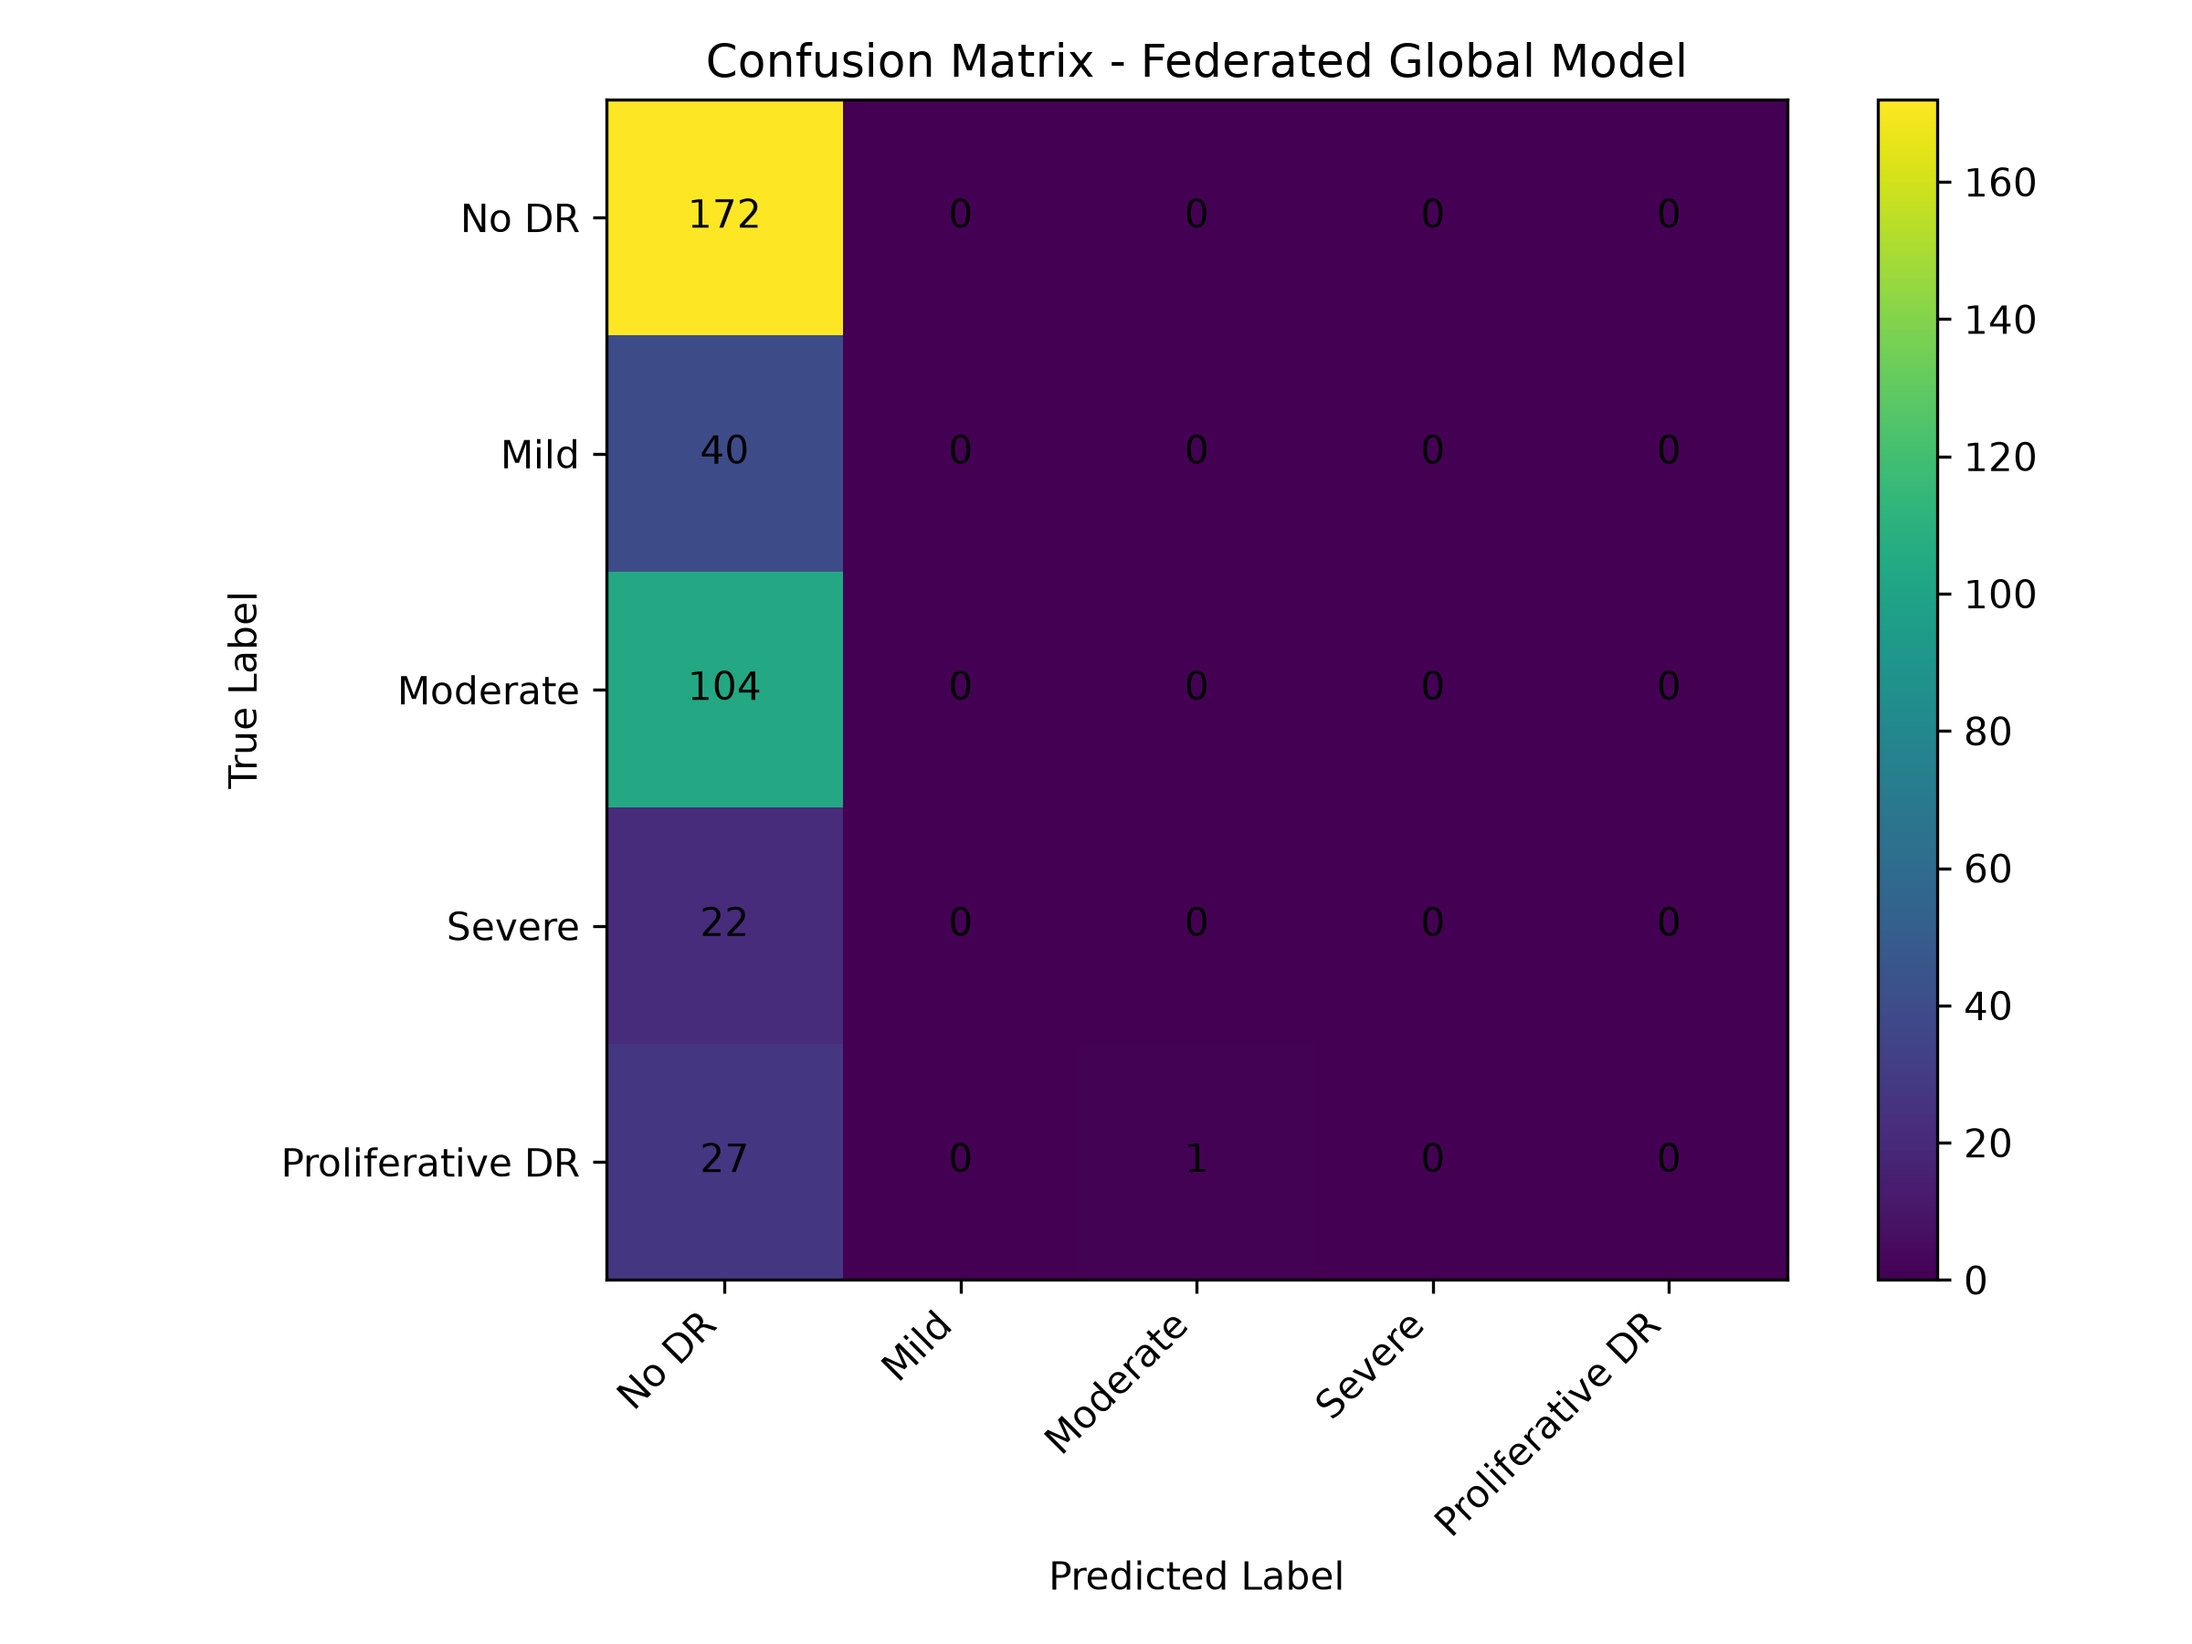
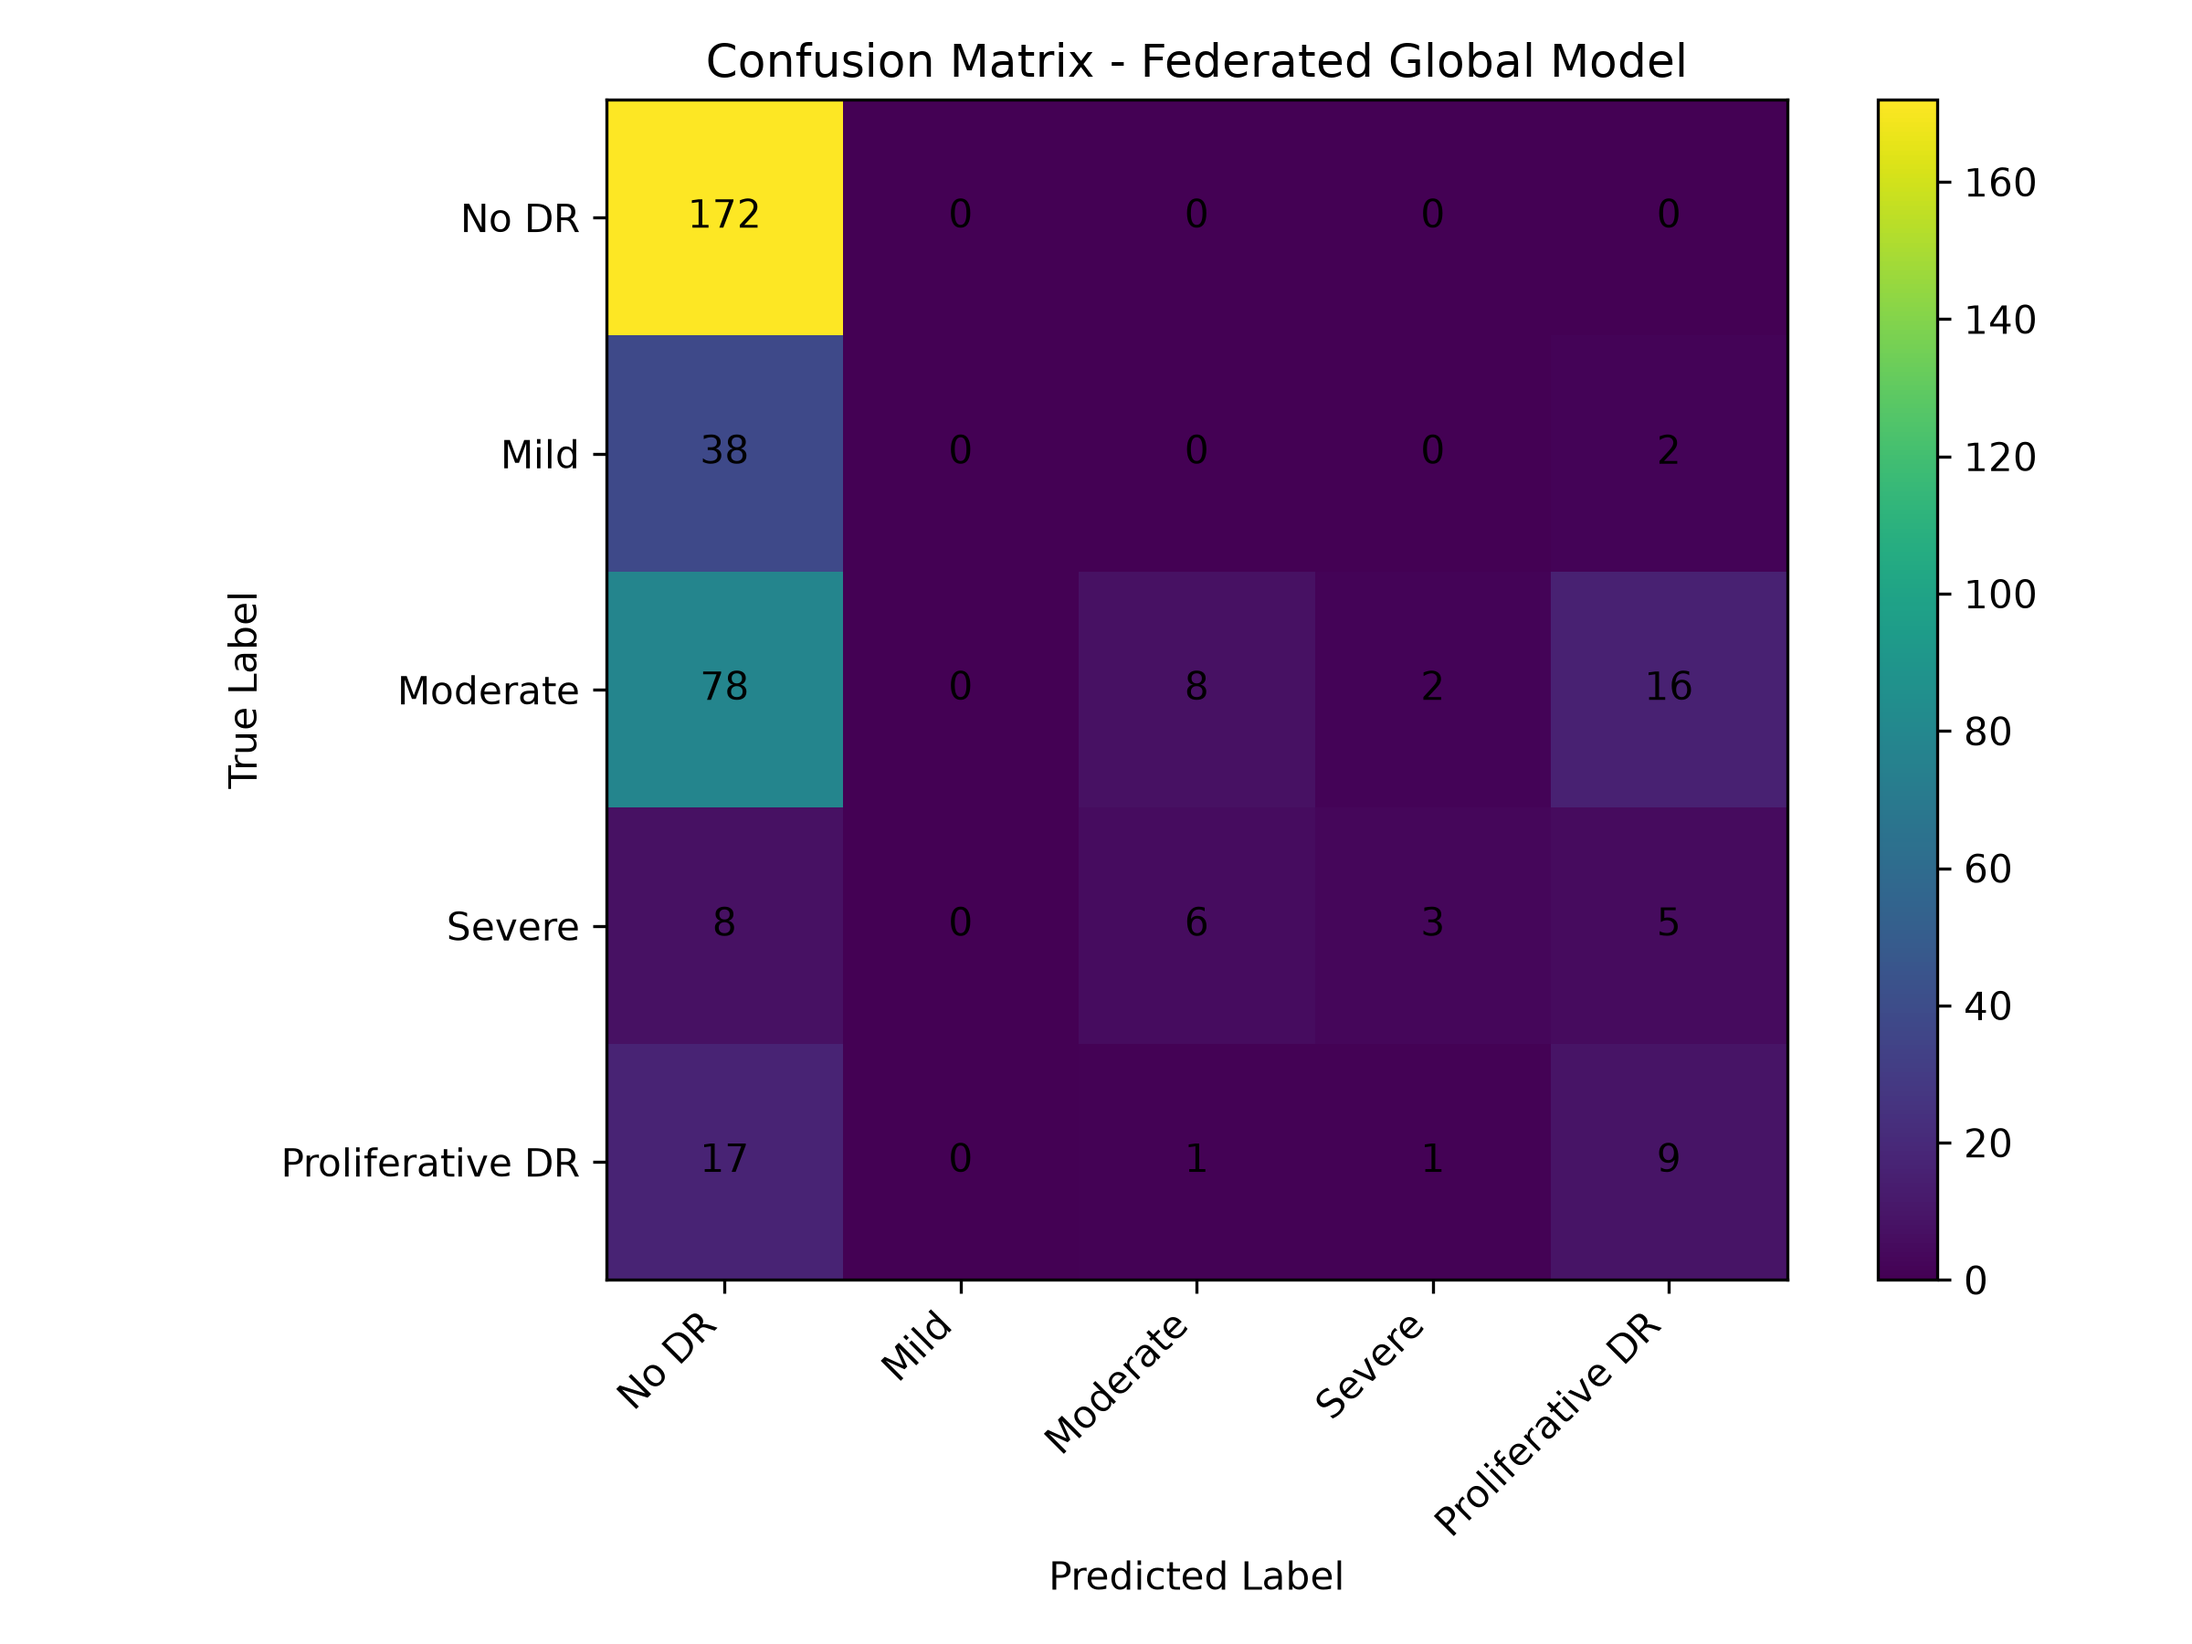
Add non-IID weighted FedAvg experiment

Changed region(s): [[0.25, 0.3422, 0.4062, 0.6533], [0.6875, 0.3422, 0.8125, 0.4978], [0.3125, 0.2489, 0.3438, 0.28]]

diff --git a/fl/fed_train_non_iid_weighted.py b/fl/fed_train_non_iid_weighted.py
@@ -1,0 +1,259 @@
+import torch
+import pandas as pd
+
+from fl.server import FLServer
+
+
+# ==========================================================
+# SETTINGS
+# ==========================================================
+
+NUM_CLIENTS = 4
+ROUNDS = 5
+LOCAL_EPOCHS = 1
+
+# Use the complete client datasets
+MAX_BATCHES = None
+
+# FedAvg
+MU = 0.0
+
+# Non-IID clients
+CLIENT_FOLDER = "clients_non_iid"
+
+# Number of DR classes
+NUM_CLASSES = 5
+
+# Training CSV used to calculate global class weights
+TRAIN_CSV = "datasets/train_1.csv"
+
+
+# ==========================================================
+# CALCULATE GLOBAL CLASS WEIGHTS
+# ==========================================================
+
+def calculate_class_weights():
+
+    df = pd.read_csv(TRAIN_CSV)
+
+    class_counts = (
+        df["diagnosis"]
+        .value_counts()
+        .sort_index()
+    )
+
+    total_samples = len(df)
+
+    weights = []
+
+    for class_id in range(NUM_CLASSES):
+
+        count = class_counts.get(
+            class_id,
+            0
+        )
+
+        if count == 0:
+            raise ValueError(
+                f"Class {class_id} has no samples "
+                f"in the training dataset."
+            )
+
+        weight = (
+            total_samples
+            / (NUM_CLASSES * count)
+        )
+
+        weights.append(weight)
+
+    return torch.tensor(
+        weights,
+        dtype=torch.float32
+    )
+
+
+# ==========================================================
+# CALCULATE WEIGHTS
+# ==========================================================
+
+class_weights = calculate_class_weights()
+
+
+# ==========================================================
+# START
+# ==========================================================
+
+print("=" * 60)
+print(
+    "FEDERATED LEARNING - NON-IID FEDAVG "
+    "WITH CLASS-WEIGHTED CROSSENTROPY"
+)
+print("=" * 60)
+
+print(
+    f"Number of clients : {NUM_CLIENTS}"
+)
+
+print(
+    f"Number of rounds  : {ROUNDS}"
+)
+
+print(
+    f"Local epochs      : {LOCAL_EPOCHS}"
+)
+
+print(
+    f"Max batches       : {MAX_BATCHES}"
+)
+
+print(
+    f"Client folder     : {CLIENT_FOLDER}"
+)
+
+print(
+    "Algorithm         : FedAvg"
+)
+
+print(
+    "Loss              : "
+    "Class-Weighted CrossEntropy"
+)
+
+print(
+    f"Mu (μ)            : {MU}"
+)
+
+
+# ==========================================================
+# DISPLAY CLASS DISTRIBUTION
+# ==========================================================
+
+train_df = pd.read_csv(TRAIN_CSV)
+
+class_counts = (
+    train_df["diagnosis"]
+    .value_counts()
+    .sort_index()
+)
+
+print("\nGlobal Training Class Distribution:")
+
+for class_id in range(NUM_CLASSES):
+
+    print(
+        f"Class {class_id}: "
+        f"{class_counts.get(class_id, 0)} samples"
+    )
+
+
+# ==========================================================
+# DISPLAY CLASS WEIGHTS
+# ==========================================================
+
+print("\nClass Weights:")
+
+for class_id, weight in enumerate(
+    class_weights
+):
+
+    print(
+        f"Class {class_id}: "
+        f"{weight.item():.4f}"
+    )
+
+
+# ==========================================================
+# SERVER
+# ==========================================================
+
+server = FLServer(
+    num_clients=NUM_CLIENTS,
+    local_epochs=LOCAL_EPOCHS,
+    max_batches=MAX_BATCHES,
+    class_weights=class_weights,
+    mu=MU,
+    client_folder=CLIENT_FOLDER
+)
+
+
+# ==========================================================
+# TRAINING
+# ==========================================================
+
+round_results = []
+
+for round_number in range(
+    1,
+    ROUNDS + 1
+):
+
+    print("\n")
+    print("=" * 60)
+    print(
+        f"FEDERATED ROUND "
+        f"{round_number}/{ROUNDS}"
+    )
+    print("=" * 60)
+
+    (
+        global_model,
+        train_loss,
+        train_accuracy
+    ) = server.train_round()
+
+    # ------------------------------------------------------
+    # Save weighted FedAvg model
+    # ------------------------------------------------------
+
+    model_path = (
+        f"global_model_non_iid_weighted_fedavg_round_"
+        f"{round_number}.pth"
+    )
+
+    torch.save(
+        global_model.state_dict(),
+        model_path
+    )
+
+    print(
+        f"\nGlobal model saved: "
+        f"{model_path}"
+    )
+
+    # ------------------------------------------------------
+    # Store results
+    # ------------------------------------------------------
+
+    round_results.append(
+        (
+            round_number,
+            train_loss,
+            train_accuracy
+        )
+    )
+
+
+# ==========================================================
+# SUMMARY
+# ==========================================================
+
+print("\n")
+print("=" * 60)
+print(
+    "NON-IID WEIGHTED FEDAVG TRAINING COMPLETE"
+)
+print("=" * 60)
+
+print("\nRound Results:")
+
+for (
+    round_number,
+    train_loss,
+    train_accuracy
+) in round_results:
+
+    print(
+        f"Round {round_number}: "
+        f"Loss = {train_loss:.4f}, "
+        f"Accuracy = {train_accuracy:.2f}%"
+    )

diff --git a/fl/evaluate_detailed.py b/fl/evaluate_detailed.py
@@ -14,7 +14,7 @@ from datasets.preprocess import get_dataloaders
 # Settings
 # ==========================================
 
-MODEL_PATH = "global_model_non_iid_fedprox_round_5.pth"
+MODEL_PATH = "global_model_non_iid_weighted_fedavg_round_5.pth"
 
 CLASS_NAMES = [
     "No DR",
